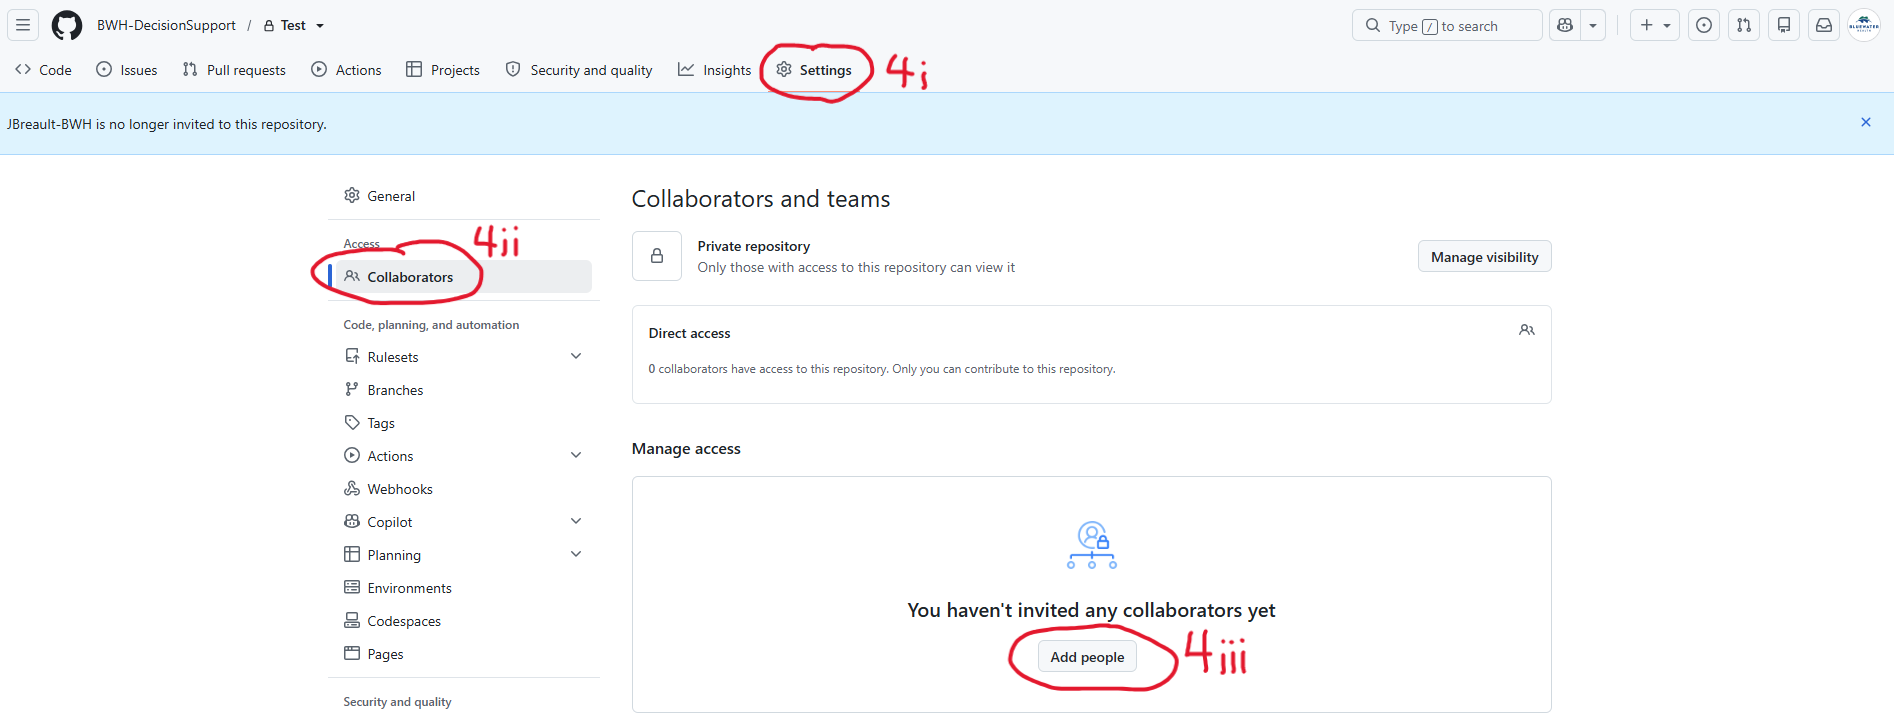
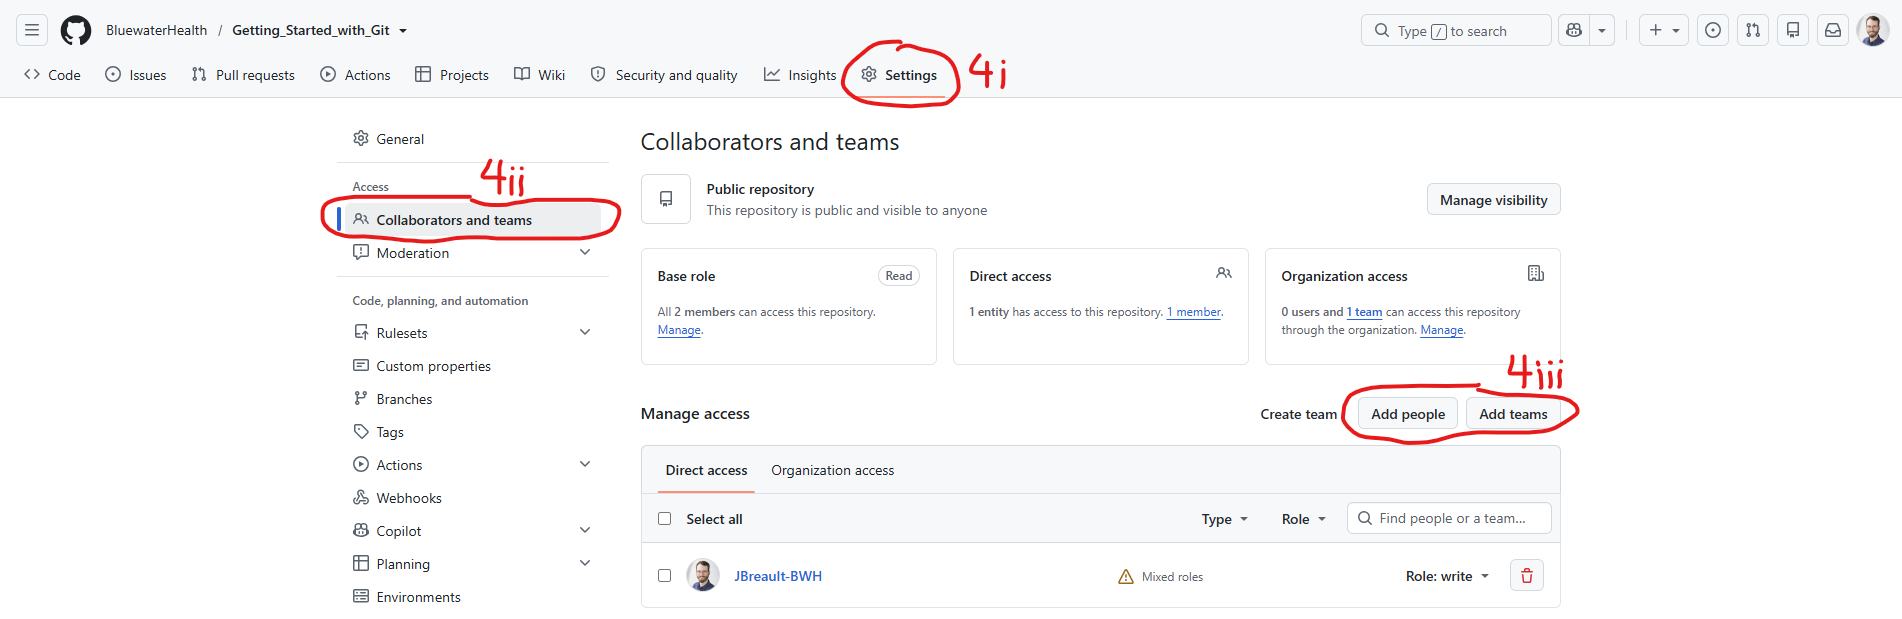
Updating README for organizational account

diff --git a/README.md b/README.md
@@ -18,21 +18,21 @@ Download the latest version of **Git for Windows** from the link below and follo
 
 # GitHub Accounts
 
+### GitHub Organization
+
+The Bluewater Health GitHub organization is used to store and manage Bluewater Health's Git repositories. Included members, permissions, and other important settings can only be controlled by owners.
+
+**Link:** https://github.com/BluewaterHealth
+
 ### Personal Account
 
-Everyone on the team using Git needs their own GitHub account using their work email for traceability. Personal accounts should only be used to access and make changes to team Git repositories. Personal accounts should not have Git repositories themselves. Sign up for a free GitHub account using the link below.
+Everyone on the team using Git needs their own GitHub account using their work email for traceability. Personal accounts should only be used to access and make changes to team Git repositories. Personal accounts should not have Git repositories themselves. Sign up for a free GitHub account using the link below. Once created, send an owner your account username so you can be given appropriate roles and permissions.
 
 **Link:** https://github.com/signup
 
-### Team Account
-
-**Username:** BWH-DecisionSupport
-
-This is a GitHub account for the Bluewater Health Decision Support Team, created using the team email (DecisionSupportTeam@bluewaterhealth.ca). This account should only be used to store team Git repositories. File changes should only be done under personal accounts, not the team account.
-
 ### Upgrading GitHub
 
-If the team ever wants to do code reviews with code owners (required reviewers), we can upgrade to GitHub Team ($4 per user/month) or GitHub Enterprise ($21 per user/month). More info is available via the link below.
+If the team ever wants finer control over roles and permissions, among other things, we can upgrade to GitHub Team ($4 per user/month) or GitHub Enterprise ($21 per user/month). More info is available via the link below.
 
 **Link:** https://github.com/pricing
 
@@ -46,12 +46,10 @@ GitHub Desktop is required to use Git for people not familiar with Git CLI. Inst
 
 # Creating a Git Repository
 
-1. Log in to GitHub using the team account
-2. Navigate to existing repositories:
-    1. Click the small Bluewater Health logo in the upper right corner
-    2. Click "Repositories"
+1. Log in to GitHub using your account
+2. Navigate to existing repositories: https://github.com/orgs/BluewaterHealth/repositories
 3. Create a new repository:
-    1. Click "New"
+    1. Click "New repository"
     2. Populate "Repository name"
     3. Populate "Description"
     4. For "Choose visibility" select "Private" **<- IMPORTANT!!!**
@@ -59,11 +57,14 @@ GitHub Desktop is required to use Git for people not familiar with Git CLI. Inst
     6. For "Add .gitignore" select "No .gitignore"
     7. For "Add license" select "No license"
     8. Click "Create repository"
-4. Give access to personal accounts:
+4. Give access to collaborators, if applicable:
     1. Click "Settings"
-    2. Click "Collaborators" and reauthenticate if prompted
-    3. Click "Add people", search for and add a personal account, repeat for all accounts that need access
-    4. Each added account must accept an email invitation while logged in to that personal account
+    2. Click "Collaborators and teams"
+    3. Click "Add people" or "Add teams" to add a person or team respectively, add the appropriate role:
+        a. Read - For viewing, can pull files locally (default)
+        b. Write - For contributing, can do everything "Read" can do and push changes
+        C. Admin - For full control, can do everything "Write" can do and destructive actions
+    5. Each added account must accept an email invitation while logged in
 
 ![Image](screenshots/go_to_add_repository.png)
 ![Image](screenshots/add_repository.png)
@@ -74,7 +75,7 @@ GitHub Desktop is required to use Git for people not familiar with Git CLI. Inst
 1. Open GitHub Desktop
 2. Click "File"
 3. Click "Clone Repository..."
-4. Select the Git repository to clone, your personal GitHub account must be included as a collaborator on the repository for it to appear (refer to Creating a Git Repository, Step 4)
+4. Select the Git repository to clone, you can only see repositories you have permissions for (refer to Creating a Git Repository, Step 4)
 5. Choose a path to save the repository to, shared drives are supported
 6. Click "Clone"
 
